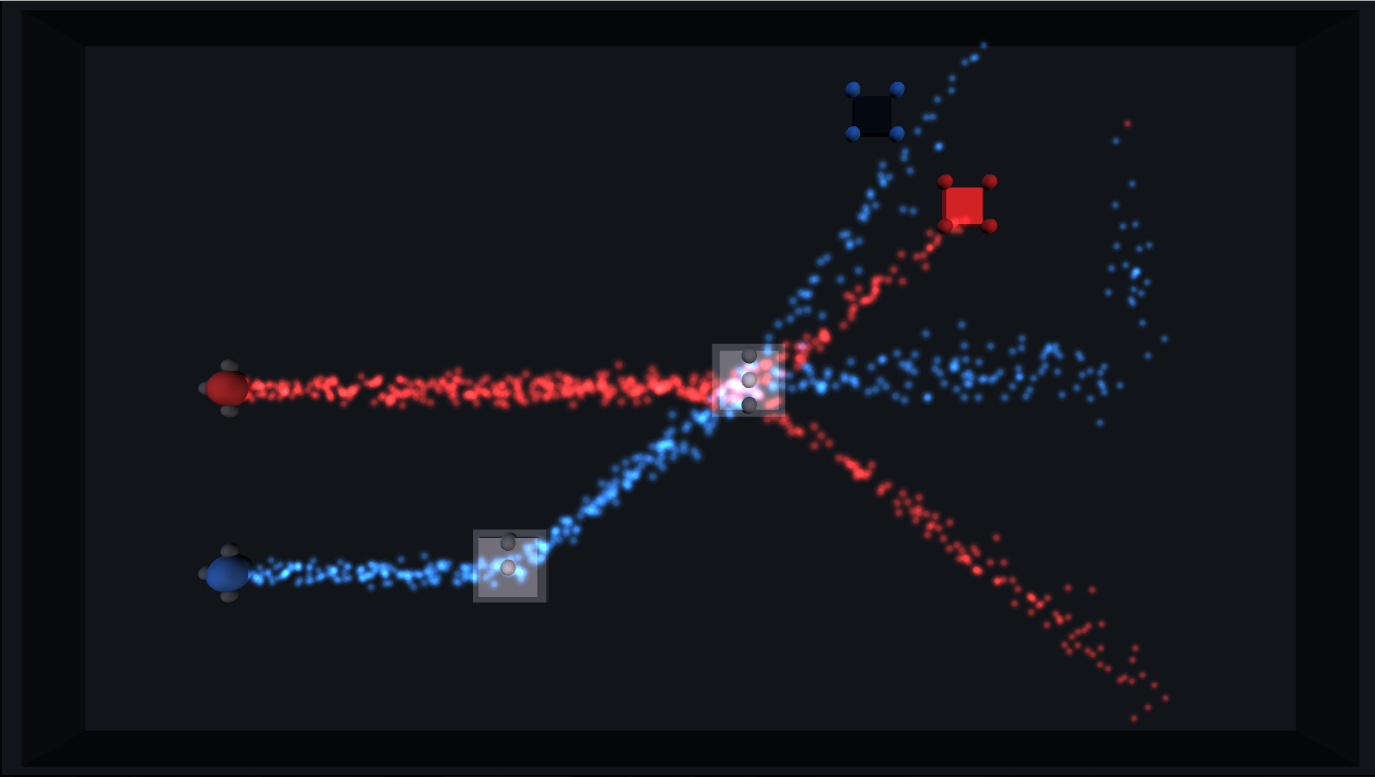
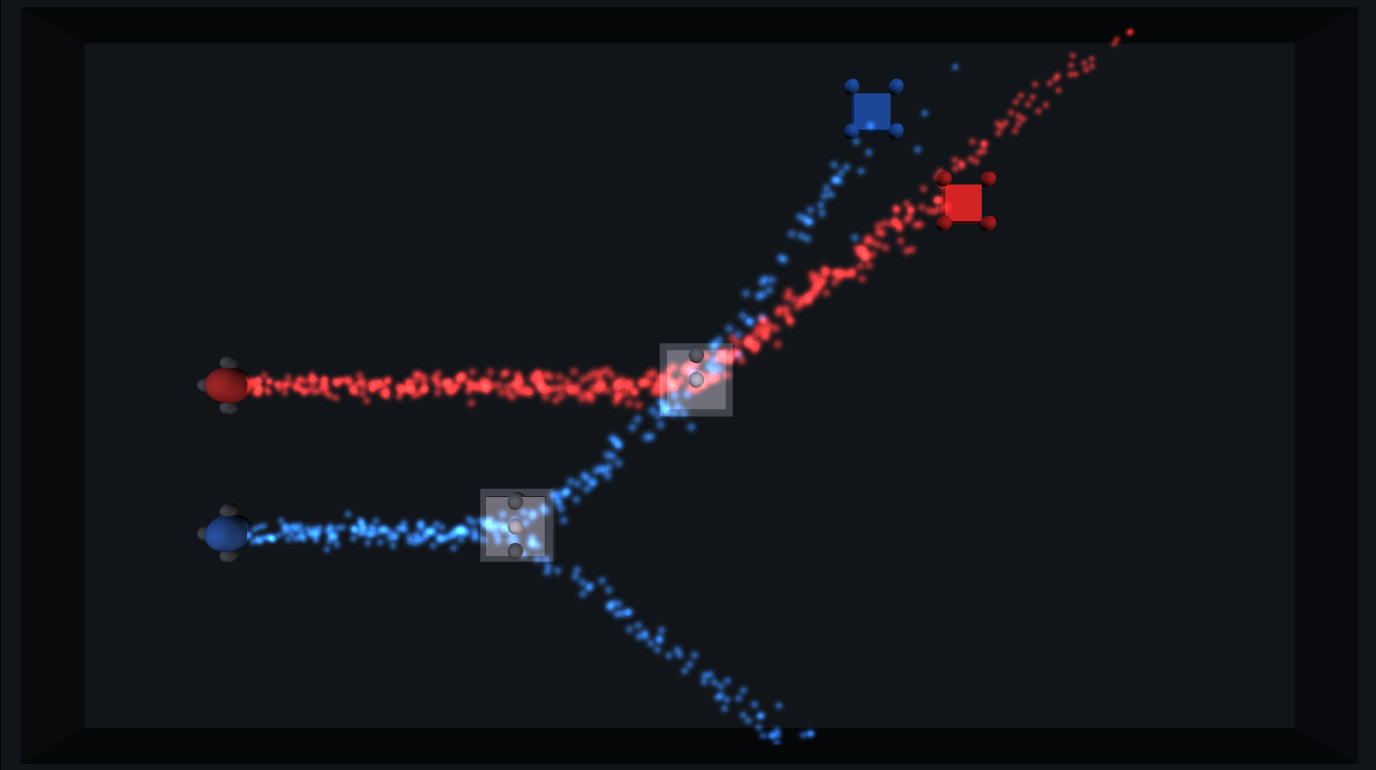
Added level 9, clarified readme, tweaked level 8

diff --git a/readme.md b/readme.md
@@ -5,6 +5,8 @@
 ## Summary
 A game about flow manipulation. To complete each level, you must position the pushers and splitters provided in such a way that each flow reaches the sink of the same color.
 
+Best viewed in Google Chrome, also tested in Mozilla Firefox.
+
 Submitted to [GitHub's Game Off 2013](https://github.com/github/game-off-2013) and completed as our [Computer Graphics](http://www.ecse.rpi.edu/~wrf/pmwiki/pmwiki.php/ComputerGraphicsFall2013/ComputerGraphicsFall2013) Term Project at RPI.
 
 ## Team Members
@@ -18,7 +20,7 @@ Running Flows Locally:
 
 Running Flows Online:
   1.  Note: This is the latest version of our code, which may include changes after GitHub's Game Off deadline.
-  2.  [GitHub Pages](http://scotttodd.github.io/Flows/)
+  2.  [Flows on GitHub Pages](http://scotttodd.github.io/Flows/)
 
 ## Controls
 - Number keys 1-9 to select pusher or splitter to control
